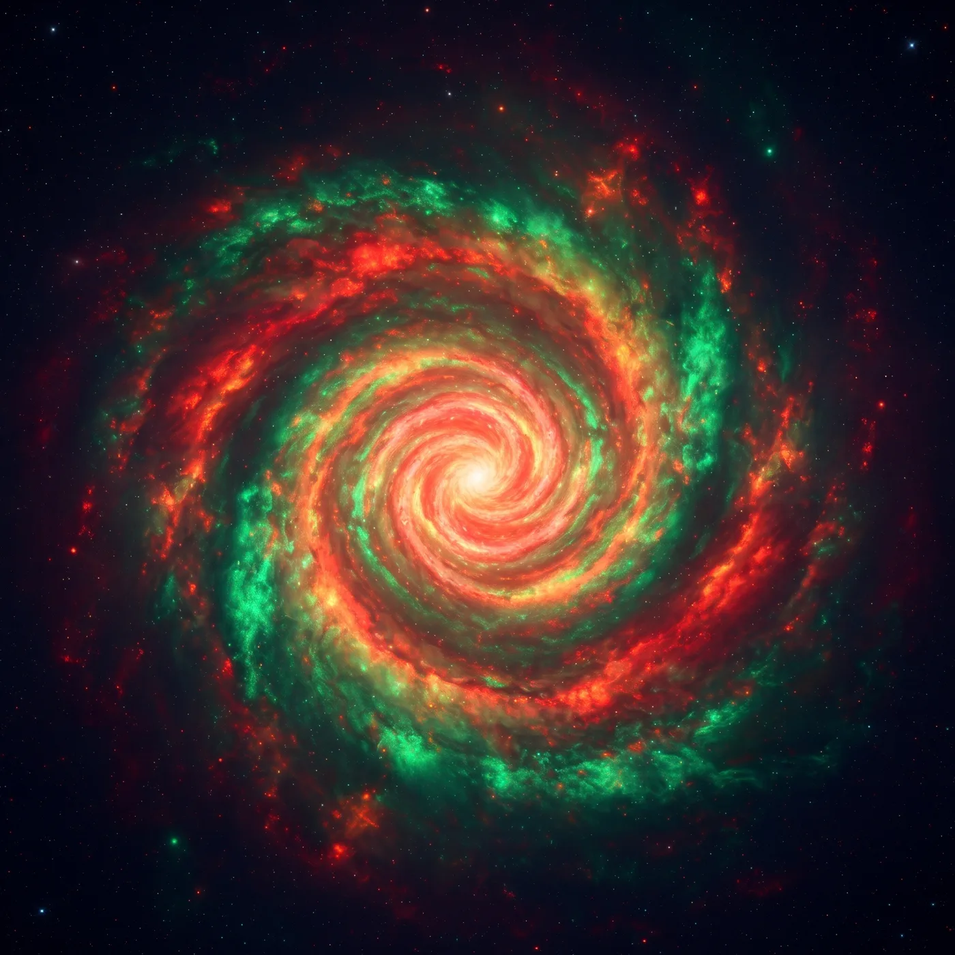
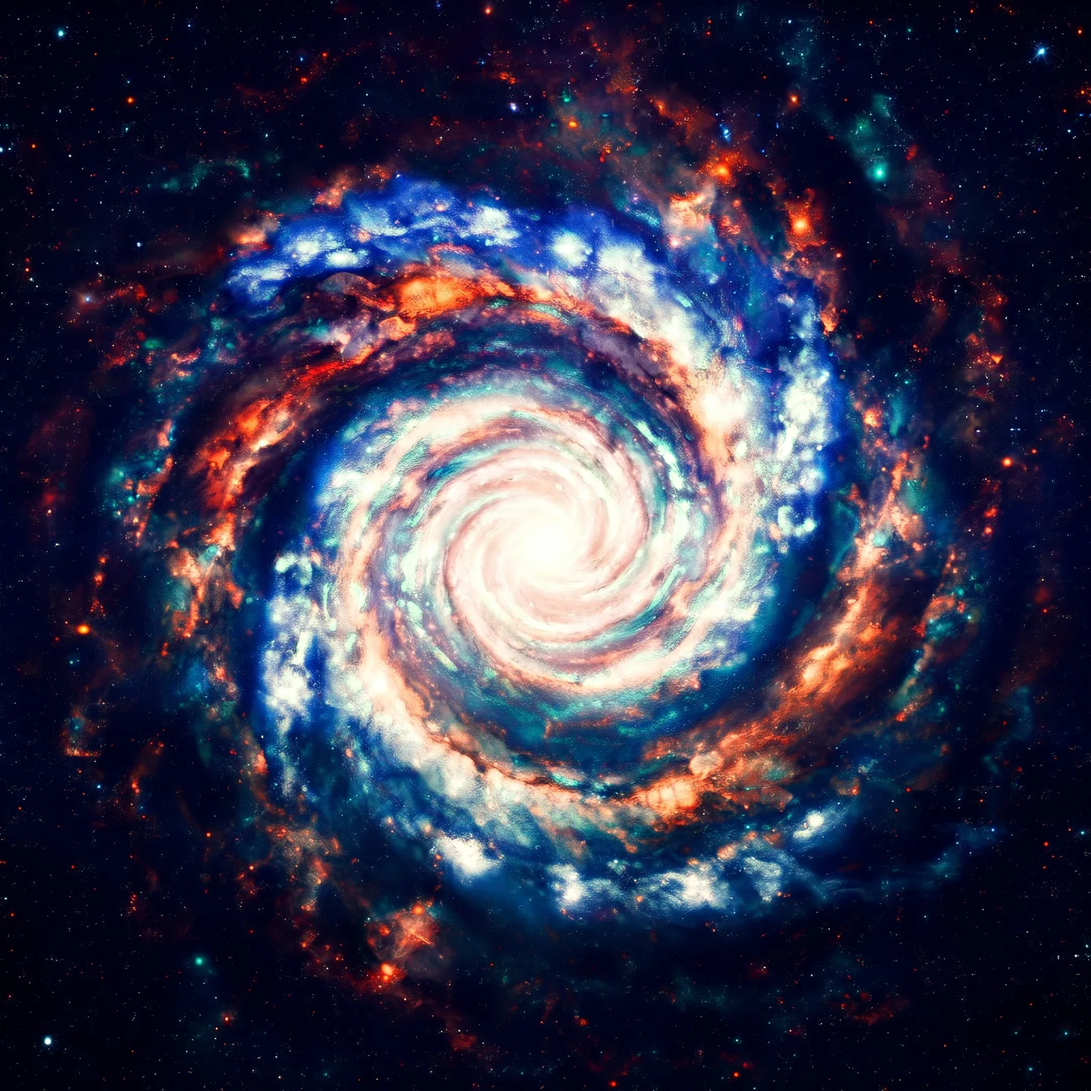
Galactic Chomps: the new English galaxy (data/chomps/galaxy-english.webp, from incoming-assets/gemini) with a subtle dark backing behind the English board so every tile and word stays clear of it

diff --git a/lib/munch-mix.js b/lib/munch-mix.js
@@ -79,7 +79,7 @@
       // ---- the board
       const setLook = (pack)=>{
         look = GC_LOOK[pack] || GC_LOOK.MATH;
-        slab.style.setProperty('--edge', look.edge); board.style.setProperty('--grey', look.grey); api.overlay.style.setProperty('--edge', look.edge);
+        slab.style.setProperty('--edge', look.edge); slab.dataset.pack = pack; board.style.setProperty('--grey', look.grey); api.overlay.style.setProperty('--edge', look.edge);
         const g = set.querySelectorAll('.gc-galaxy'), on = set.querySelector('.gc-galaxy.on') || g[1], nx = on === g[0] ? g[1] : g[0];
         nx.style.backgroundImage = 'url(' + GC_ART + look.galaxy + ')'; nx.classList.add('on'); on.classList.remove('on');
       };

diff --git a/lib/munch-mix.css b/lib/munch-mix.css
@@ -155,3 +155,5 @@
 .gc-set .gc-comet::after{ content:''; position:absolute; right:-6px; top:50%; width:12px; height:12px; margin-top:-6px; border-radius:50%; background:#ffffff; box-shadow:0 0 10px 4px var(--sc, #fff); }
 .gc-set .gc-bolt{ width:70px; height:4px; margin-top:-2px; border-radius:4px; background:linear-gradient(90deg, #ffffff, var(--sc, #fff)); box-shadow:0 0 10px var(--sc, #fff); }
 .gc-set .gc-hole{ margin:-23vmin 0 0 -23vmin; z-index:2; }
+/* the English galaxy is bright behind the board: a subtle dark backing keeps every tile and word clear of it */
+.gc-slab[data-pack="ENGLISH"]{ background:linear-gradient(180deg, rgba(14,8,40,0.5), rgba(10,6,30,0.42) 50%, rgba(14,8,40,0.55)); }
